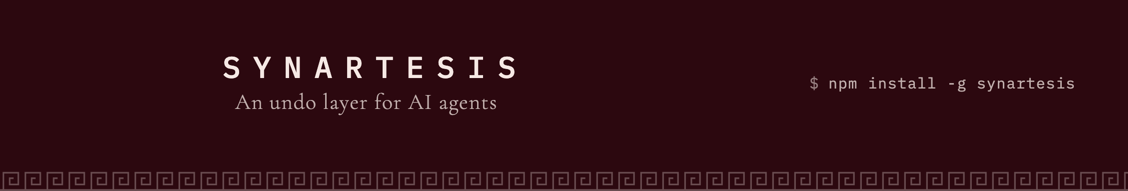
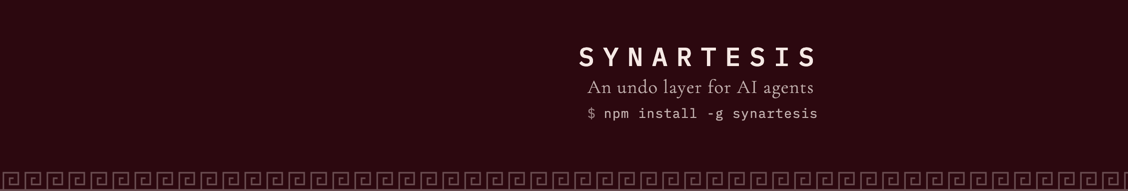
fix(brand): the cover survives the crop LinkedIn actually applies
The type sat at 21% of the width, which cleared the logo on a full-width
page and nowhere else. LinkedIn renders this card narrow in several places,
and there two things happen at once: the logo is far larger relative to the
strip and sits nearer the middle, straight through the wordmark, and the
strip is shown at about 3:1 against the file's 5.9:1, so object-fit throws
away both edges and keeps only the middle half.

Everything moves into the right half -- past the logo, and stopping well
short of the right edge, since that edge is cropped too. The install command
joins the stack rather than floating opposite it. Mocked at both widths with
the logo in place before committing.

diff --git a/brand/cover-linkedin.html b/brand/cover-linkedin.html
@@ -34,40 +34,44 @@
     overflow: hidden;
     display: flex;
     align-items: center;
-    /* The left inset is the logo's parking space, not a margin. */
-    padding-left: 470px;
-    padding-right: 104px;
+    /* Everything lives in the right half.
+       The first version put the type at 21% of the width and cleared the logo
+       on a full-width desktop page -- but LinkedIn renders this card narrow in
+       several places, and there the logo is far bigger relative to the strip
+       and sits nearer the middle, straight through the wordmark. It also crops
+       the strip from both edges, so the far right is no safer than the left.
+       The block therefore starts past halfway and stops well short of the right
+       edge, which is the only band that survives every one of those cuts. */
+    padding-left: 1175px;
+    padding-right: 180px;
     /* The meander owns the bottom band, so the type is centred in what is left
        above it rather than in the whole height. */
     padding-bottom: 52px;
-    gap: 64px;
   }
 
-  .stack { display: grid; gap: 18px; }
+  .stack { display: grid; gap: 16px; justify-items: start; }
 
   .wordmark {
     font-family: var(--mono);
     font-weight: 500;
-    font-size: 60px;
-    letter-spacing: 0.42em;
+    font-size: 52px;
+    letter-spacing: 0.34em;
     text-transform: uppercase;
     color: var(--ink);
     line-height: 1;
     /* Tracking adds space after the final letter too, which throws the block
        optically right. Pulled back by one step to sit where it looks placed. */
-    margin-left: -0.42em;
+    margin-left: -0.34em;
   }
 
   .tagline {
     font-family: var(--display);
     font-weight: 300;
-    font-size: 44px;
+    font-size: 38px;
     letter-spacing: 0.04em;
     color: var(--ink-soft);
     line-height: 1;
   }
-
-  .spacer { flex: 1; }
 
   /* The right-hand third was a hole with a URL floating in it. The one command
      is what the site leads with and what a reader can act on, and set in the
@@ -76,7 +80,7 @@
   .command {
     font-family: var(--mono);
     font-weight: 400;
-    font-size: 30px;
+    font-size: 26px;
     letter-spacing: 0.06em;
     color: var(--ink-soft);
     white-space: nowrap;
@@ -108,8 +112,7 @@
   <div class="stack">
     <div class="wordmark">Synartesis</div>
     <div class="tagline">An undo layer for AI agents</div>
+    <div class="command"><span class="prompt">$</span>npm install -g synartesis</div>
   </div>
-  <div class="spacer"></div>
-  <div class="command"><span class="prompt">$</span>npm install -g synartesis</div>
   <div class="fret"></div>
 </div>
